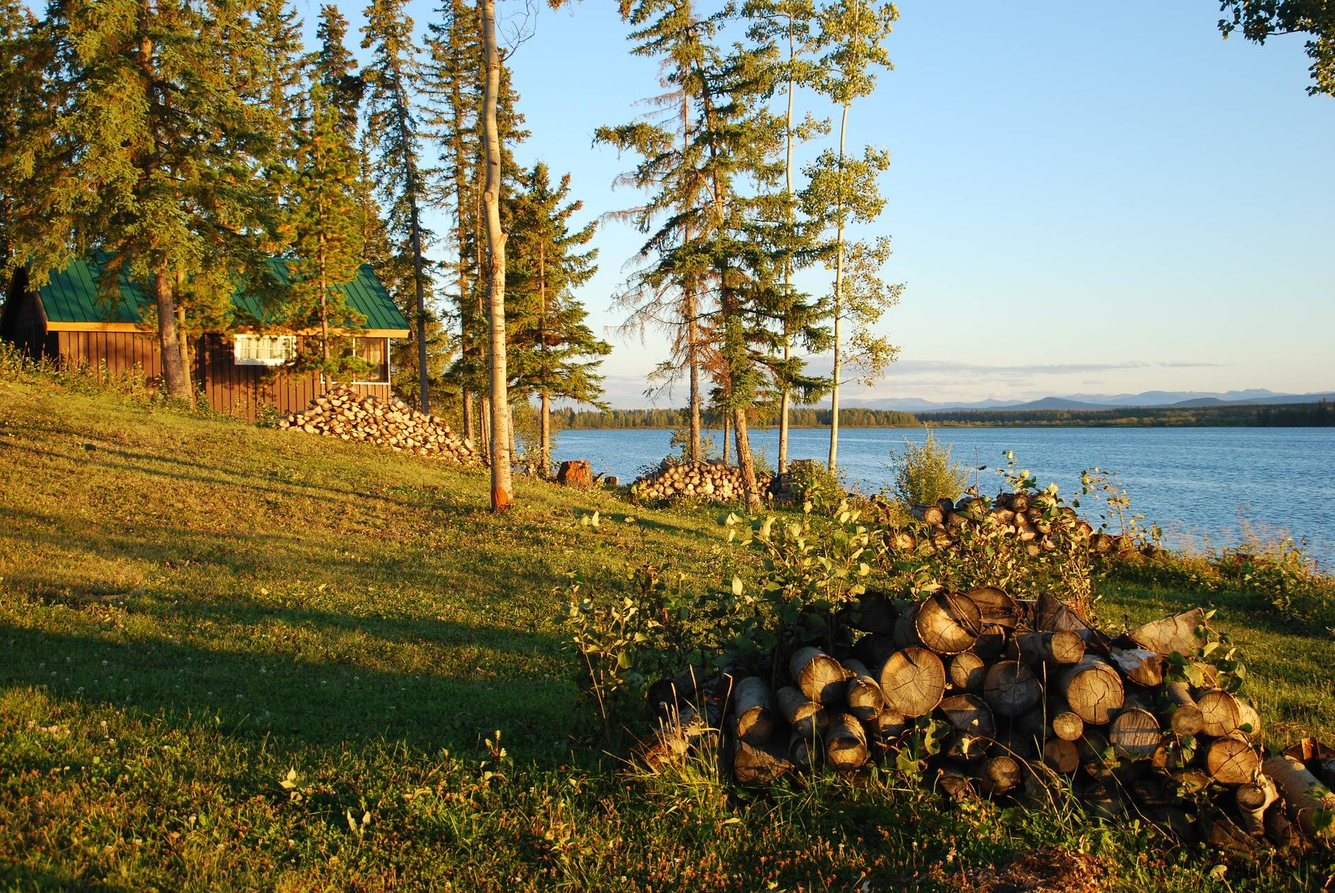
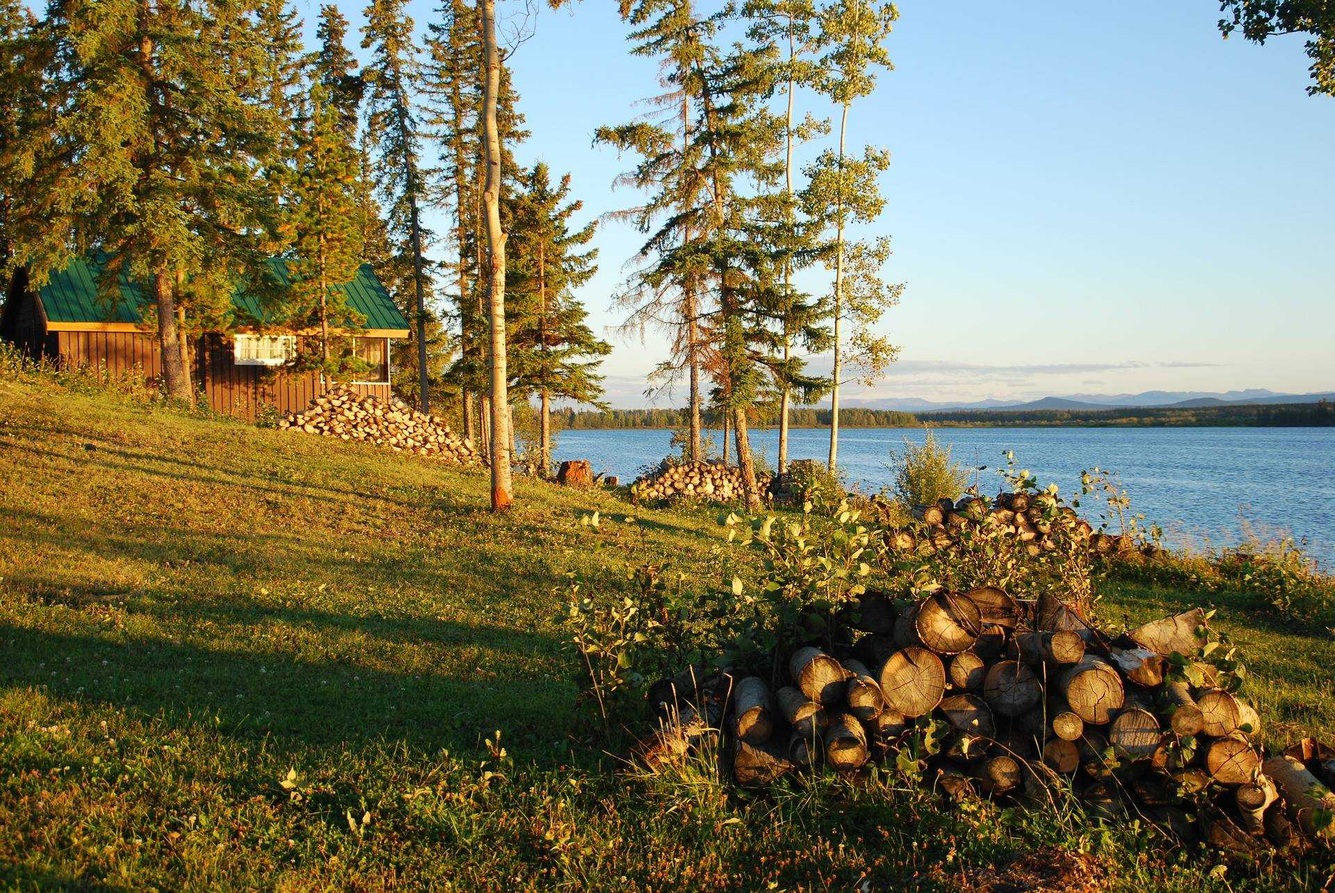
Resize large images

diff --git a/omcamping.html b/omcamping.html
@@ -38,7 +38,7 @@
     <main>
     <p>Östansjö Camping ligger naturskönt vid Storströmsjöns strand, på marker som fram till slutet av 1990-talet var del av ett jordbruk. Gården såldes sedan till Viveca och Göran Sten, vildmarksguide respektive skogsmästare, som valde att göra om verksamheten till en camping med fokus på friluftsliv och naturupplevelser.</p>
     <p>Campingen är ett familjeägt företag och drivs med målet att ta tillvara på den lokala kunskapen. Därför samarbetar vi med flera olika företag och aktörer i området för att kunna erbjuda våra gäster bästa möjliga semesterupplevelse.</p>
-    <img src="img/sjon.jpg" alt="Stuga och ved vid sjö">
+    <img src="img/sjon.jpg" alt="Stuga och ved vid sjö" class="centreimage">
 </main>
 <footer>
     <div id="footerwrapper"> 

diff --git a/index.html b/index.html
@@ -36,7 +36,7 @@
     </header>
     <main>
 <h2>Välkommen till Östansjö Camping!</h2>
-<img src="img/campingintillsjön.jpg" alt="">
+<img src="img/campingintillsjön.jpg" alt="Husbilar vid sjö" class="centreimage">
     <p>Hos oss kan du hyra stugor, ställplats eller tältplats i en rofylld och naturnära miljö. Campingen ligger intill Storsandsjöns östra strand och här finns allt du och din familj behöver för en aktiv och energigivande semester.</p>
     <p>I området finns flera olika vandringsleder samt goda fiskemöjligheter. Fiskekort kan du köpa från oss i receptionen. Vi hyr också ut kanoter, roddbåtar och cyklar.</p> 
     <p>Barnfamiljer kan glädja sig åt en långgrund strand, en nyligen uppfräschad lekplats, en bollplan och en minigolfbana.</p>

diff --git a/aktiviteter/paddla.html b/aktiviteter/paddla.html
@@ -41,7 +41,7 @@
         <p>Är du sugen på att paddla på någon av älvarna i närheten, som Öreälven? Det går alldeles utmärkt. Hyr kanoten från oss, vi hjälper dig med transport till start och mål. Alternativt ordnar vi något med någon av våra samarbetspartners.</p>
         <h3>Hur hyr jag kanot eller roddbåt?</h3>
         <p>Kontakta oss i receptionen med dina önskemål. Skulle alla våra kanoter vara uthyrda har vi samarbeten med andra uthyrare och kan då hjälpa dig ordna paddling i andra vatten än vår sjö.</p>
-        <img src="../img/paddla.jpg" alt="Kanotpaddling">
+        <img src="../img/paddla.jpg" alt="Kanotpaddling" class="centreimage">
     </main>
     <footer>
         <div id="footerwrapper"> 

diff --git a/aktiviteter/cykla.html b/aktiviteter/cykla.html
@@ -39,7 +39,7 @@
 <p>Hyr en cykel och utforska omgivningarna. Vi har mountainbikes som lämpar sig för skogsvägs- och stigcykling men också vanliga hybridcyklar som funkar bra om du vill cykla mellan byarna.</p>
 <h3>Hur hyr jag cykel?</h3>
 <p>Önskar du hyra cykel under hela vistelsen ber vi att du skriver ett meddelande om detta när du bokar. Då kan vi reservera cykeln åt dig. Vill du hyra spontant för en dag, kom till receptionen och boka cykeln dagen innan. Ibland går det med kortare varsel än så - tveka inte att fråga.</p>
-<img src="../img/mtb.jpg" alt="Cykla i skogen">
+<img src="../img/mtb.jpg" alt="Cykla i skogen" class="centreimage">
 </main>
 <footer>
     <div id="footerwrapper"> 

diff --git a/aktiviteter/vandra.html b/aktiviteter/vandra.html
@@ -40,7 +40,7 @@
         <h3>Hur bokar jag en vandring?</h3>
         <p>Hämta en ledkarta från receptionen och ge dig av! Vi hjälper dig gärna med tips på rutter baserat på hur långt du vill gå och vad du vill uppleva.</p>
         <p>Guidade vandringar annonseras dels på vår webbsida, dels på anslagstavlan i receptionen. En ny lista på guidade vandringar kommer upp varje vecka. För att delta behöver du registrera dig senast kvällen innan vandringen i receptionen.</p>
-        <img src="../img/skogsstig.jpg" alt="Stig i skogen">
+        <img src="../img/skogsstig.jpg" alt="Stig i skogen" class="centreimage">
     </main>
     <footer>
         <div id="footerwrapper"> 

diff --git a/boende/stallplats.html b/boende/stallplats.html
@@ -37,7 +37,7 @@
 <main>
     <h2>Bo med husbil eller husvagn</h2>
 <p>Vi har gott om utrymme för husvagnar och husbilar, vilket innebär att du slipper bo i knäet på grannarna. Husvagnsägare uppmärksammas på att ni kan behöva parkera bilen på parkeringen under högsäsong, detta eftersom vi prioriterar att ge alla plats som vill ha. El finns vid samtliga ställplatser och latrintömning finns i servicehuset. </p>
-<img src="../img/tält-ställplats.jpg" alt="">
+<img src="../img/tält-ställplats.jpg" alt="Tält vid ställplats" class="centreimage">
 </main>
 <footer>
     <div id="footerwrapper"> 

diff --git a/aktiviteter.html b/aktiviteter.html
@@ -38,7 +38,7 @@
         <h2>En aktiv semester för stora och små</h2>
     <p>Utforska de vackra omgivningarna med vår hjälp. Vi erbjuder ett flertal olika friluftsaktiviteter som passar för hela familjen.</p>
     <p>Vill du ha mer information om de aktiviteter vi erbjuder är du välkommen att kontakta oss. Du hittar telefonnummer och e-postadress längst ned på varje sida.</p>
-    <img src="img/skogspromenad.jpg" alt="Familj på promenad i skogen">
+    <img src="img/skogspromenad.jpg" alt="Familj på promenad i skogen" class="centreimage">
 </main>
 <footer>
     <div id="footerwrapper"> 

diff --git a/aktiviteter/fiske.html b/aktiviteter/fiske.html
@@ -38,7 +38,7 @@
         <p>Ta med fiskespöet och fiska abborre, gädda och mört vid campingens strand. Vi säljer tillbehör som beten och tråd.</p>
         <h2>Hur gör jag om jag vill fiska?</h2>
         <p>Ta med dig fiskespöet hemifrån och köp ett fiskekort i vår reception. Saknar du fiskeutrustning går det att hyra från en butik i trakten och vi ordnar det gärna åt dig.</p>
-        <img src="../img/fiskebåt.jpg" alt="">
+        <img src="../img/fiskebåt.jpg" alt="Fiske med spö från båt" class="centreimage">
     </main>
     <footer>
         <div id="footerwrapper"> 

diff --git a/aktiviteter/forbarn.html b/aktiviteter/forbarn.html
@@ -39,7 +39,7 @@
 <p>Vår camping ligger alldeles intill en sjö med en långgrund sandstrand och en brygga man kan hoppa från.</p>
 <h2>Hur lånar jag utrustning för barn?</h2>
 <p>Vi har bollar, brännbollsträn, kubb, krocketspel och en hel del annat att låna. En fullständig lista finns i receptionen och det är också här du reserverar utrustningen och/eller golfbanan och bollplanen.</p>
-<img src="../img/lekplats.jpg" alt="Lekande barn på lekplats">
+<img src="../img/lekplats.jpg" alt="Lekande barn på lekplats" class="centreimage">
 </main>
 <footer>
     <div id="footerwrapper"> 

diff --git a/boende/taltplats.html b/boende/taltplats.html
@@ -37,7 +37,7 @@
 <main>
     <h2>Tälta i vacker miljö</h2>
 <p>Våra tältplatser ligger väl skyddade intill sjön. Det finns ingen el vid tälten men väl laddningsstationer i servicehuset som ni har fri tillgång till. Ät vid grillplatsen eller vid köket beroende på väder. I receptionen finns material att låna för att laga tält, isoleringsmattor och sovsäckar.</p>
-<img src="../img/tält.jpg" alt="Tält vid sjö">
+<img src="../img/tält.jpg" alt="Tält vid sjö" class="centreimage">
 </main>
 <footer>
     <div id="footerwrapper"> 

diff --git a/css/style.css b/css/style.css
@@ -6,7 +6,6 @@ body {
     max-width: 1000px;
     font-family: Arial, Helvetica, sans-serif;
     background-color: rgb(245, 245, 234);
-    margin: 20px;
 }
 
 /* ----------------- Header styling ----------------- */
@@ -69,8 +68,19 @@ nav a.thisPage {
     background-color: rgb(106, 184, 147);
 }
 
+main {
+    margin: 20px;
+}
+
 img {
-    max-width: 85%;
+ max-width: 100%;
+}
+
+.centreimage {
+    display: block;
+    margin-left: auto;
+    margin-right: auto;
+    width: 80%;
 }
 
 

diff --git a/boende.html b/boende.html
@@ -43,7 +43,7 @@
             <li>Servicehus med latrintömning, toaletter, duschar, kök och TV-hörna.</li>
             <li>Tvättmaskin finns och kan bokas mot en avgift. Fråga i receptionen.</li>
         </ul>
-        <img src="/img/sjövy2.jpg" alt="Vy över sjö och träd vid campingens strand">
+        <img src="/img/sjövy2.jpg" alt="Vy över sjö och träd vid campingens strand" class="centreimage">
     </main>
     <footer>
         <div id="footerwrapper"> 
